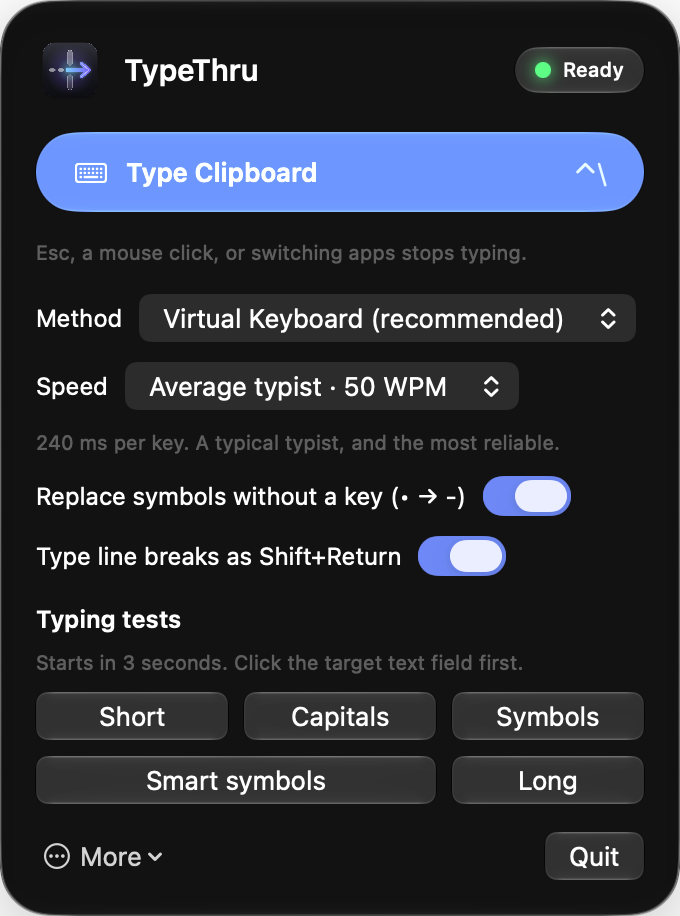
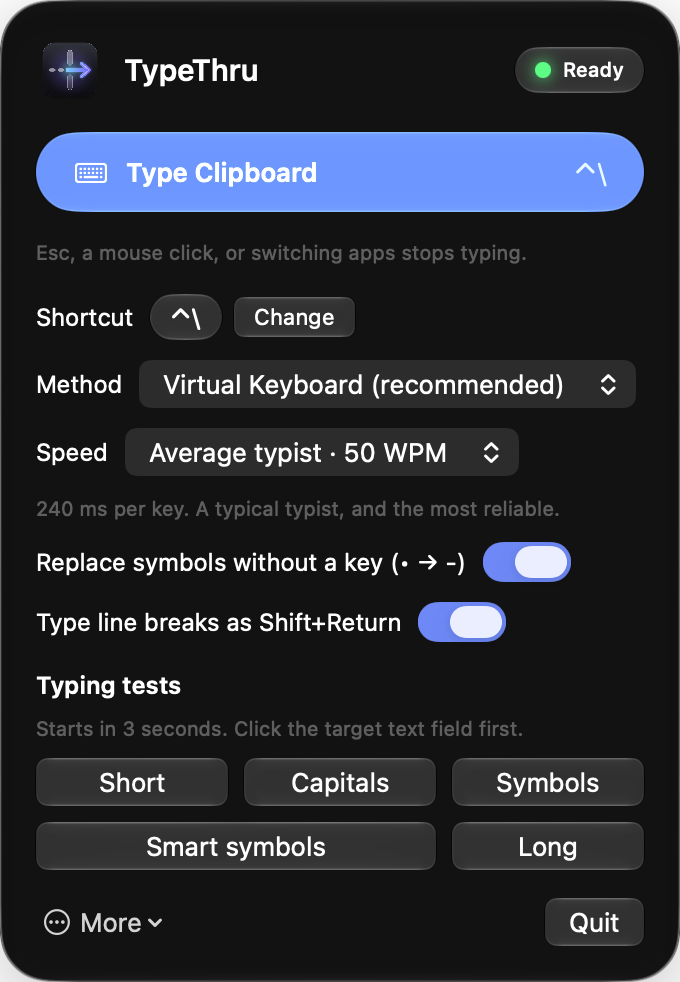
README: link to the current repository, show the shortcut setting

diff --git a/README.md b/README.md
@@ -7,7 +7,7 @@
 
 <p align="center">
   Type your clipboard into VDI and remote desktops where paste does not work.<br>
-  <a href="https://github.com/sayre4ux/TypeThru/releases"><b>Download for macOS</b></a>
+  <a href="https://github.com/sayre4ux/KeyTyper/releases"><b>Download for macOS</b></a>
 </p>
 
 <p align="center">
@@ -21,12 +21,13 @@
 - **Smart symbols**: bullets, curly quotes, and dashes are typed as plain keys.
 - **New lines, not sends**: line breaks are typed as Shift+Return.
 - **Stops instantly** when you press Esc, click, or switch apps.
+- **Your shortcut**: Control+\\ by default, or choose your own.
 
 ## Install
 
 Requires macOS 13 or later.
 
-1. Download the `.dmg` from [Releases](https://github.com/sayre4ux/TypeThru/releases).
+1. Download the `.dmg` from [Releases](https://github.com/sayre4ux/KeyTyper/releases).
 2. Drag **TypeThru** into **Applications**, then open it.
 3. If macOS says it cannot verify TypeThru, go to **System Settings › Privacy & Security**
    and choose **Open Anyway**.
@@ -39,7 +40,7 @@ Upgrading from KeyTyper? Delete the old app and run **Set Up** once.
 
 1. Copy text on your Mac.
 2. Click a text field in the remote session.
-3. Press **Control+\\**.
+3. Press **Control+\\** (or your own shortcut).
 
 Click the menu bar icon to change the shortcut or speed, run a typing test, or turn options
 off. Control alone is the safest shortcut, because other modifier keys also reach the remote
